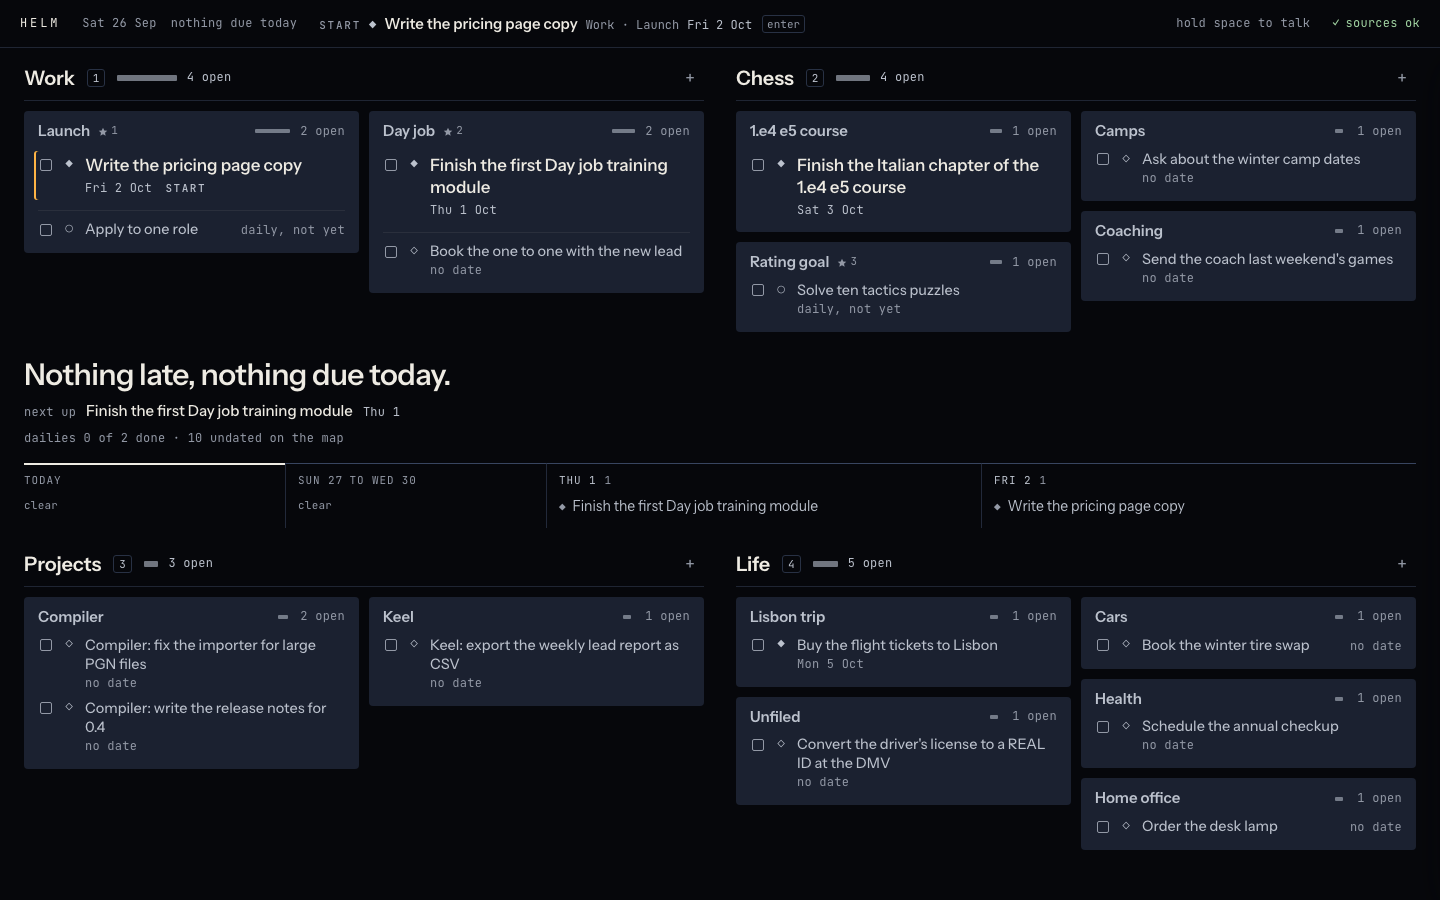
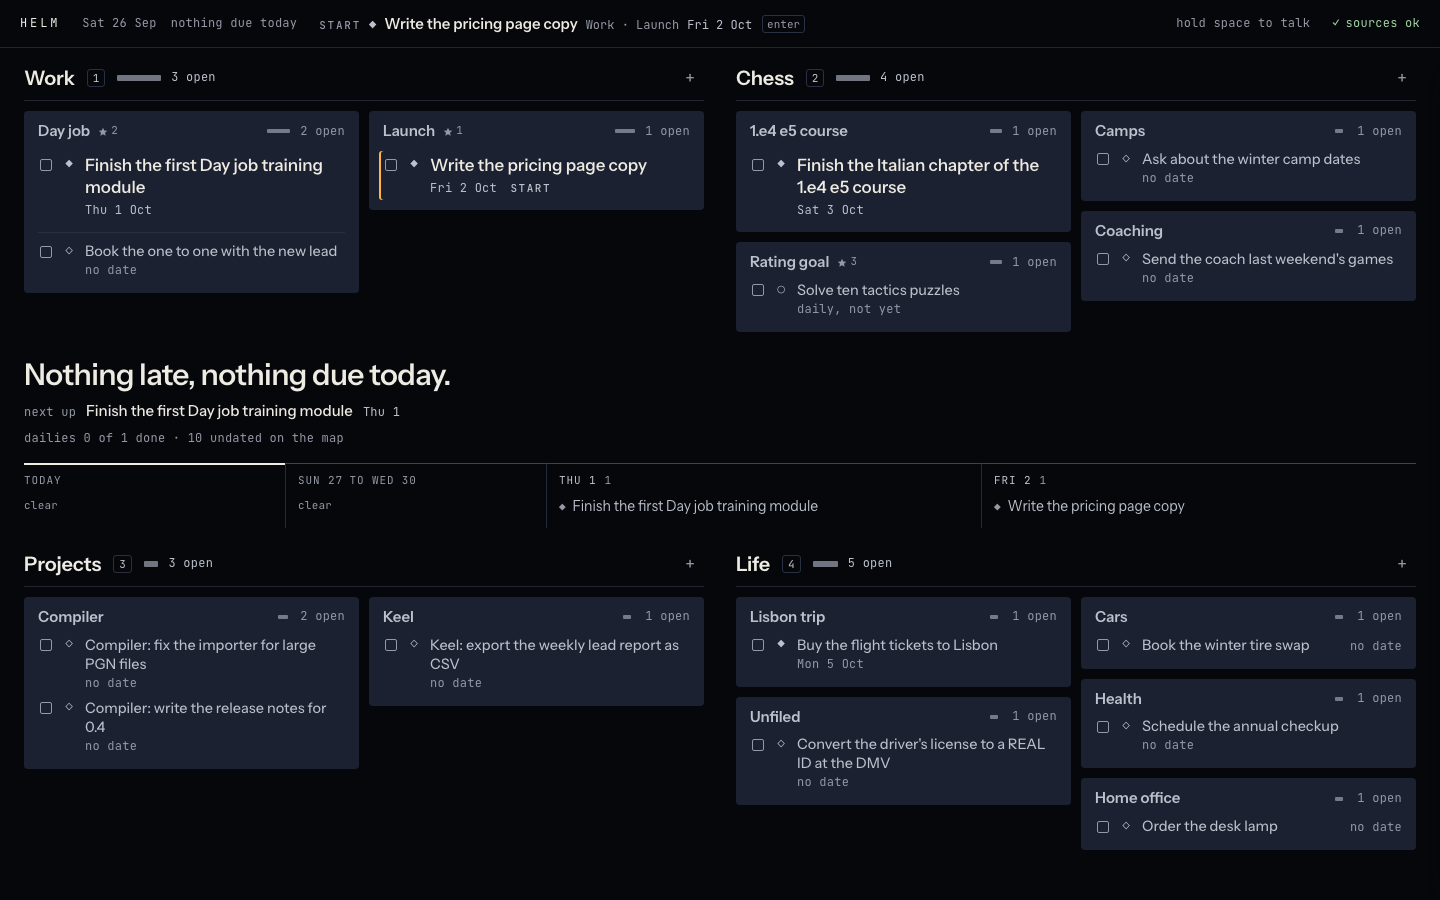
Remove the last job-search hints and an old home path
A cross-model review of the merge found what the deny list could not: the glossary's
star example, the demo vault's interview prep note and the fixture case built on it,
and HELM 1's ADR 0008 all hinted at a job search, and two design candidates under
chat/docs carried an old home directory path. The demo note is now a team wiki, the
fixture case follows it (it passes), and the screenshot is retaken.

diff --git a/CONTEXT.md b/CONTEXT.md
@@ -92,7 +92,7 @@ which model each runs at in `models.json`; it owns only the two in `skills/`.
 **Directive**:
 A department's standing goal. Every department has them; three anywhere in the tree
 are starred as the current priorities, and the list in the vault's `CLAUDE.md` renders those three
-rather than holding a separate list. A star is written on the heading, `### Job search ★1`,
+rather than holding a separate list. A star is written on the heading, `### Launch ★1`,
 and weights the todos under it (ADR 0020). A directive is never finished, so it is never
 escalated against.
 _Avoid_: goal, objective, priority, OKR

diff --git a/chat/docs/candidates/sonnet.md b/chat/docs/candidates/sonnet.md
@@ -22,7 +22,7 @@ const store = new ThreadStore({ root: "~/.helm2/state" });
 const supervisor = new SessionSupervisor({ store });
 
 // create a thread (directory picker on the phone supplies cwd)
-const thread = await store.createThread({ cwd: "/Users/danielgentile/Projects/Vault", model: "sonnet" });
+const thread = await store.createThread({ cwd: "/Users/you/Vault", model: "sonnet" });
 
 // send a turn — returns immediately, the turn runs in the background
 await supervisor.sendMessage(thread.id, { text: "summarize today's meetings", attachments: [] });

diff --git a/chat/docs/candidates/fable.md b/chat/docs/candidates/fable.md
@@ -67,7 +67,7 @@ await helm.interrupt(threadId); // 204 whether or not a turn was running
 const dirs = await helm.browseDirs("~/Projects"); // { entries: [{name, path, hasClaudeMd}] }
 const t = await helm.createThread({
   threadId: crypto.randomUUID(),   // client-minted so create + first send can be retried safely
-  cwd: "/Users/danielgentile/Projects/Vault",
+  cwd: "/Users/you/Vault",
   model: "opus",
   effort: "high",
   title: null,                     // server titles it from the first turn

diff --git a/demo-vault/CLAUDE.md b/demo-vault/CLAUDE.md
@@ -22,7 +22,7 @@ The three starred directives, in order. The stars live on the department notes.
 
 | Department | Router | Covers |
 |---|---|---|
-| Work | `WORK.md` | the day job, the launch, interview prep |
+| Work | `WORK.md` | the day job, the launch, the team offsite |
 | Projects | `PROJECTS.md` | every repo, Compiler, Keel |
 | Chess | `CHESS.md` | coaching, courses, tournaments |
 | Life | `LIFE.md` | travel, errands, home, health |

diff --git a/docs/adr/0008-deterministic-feeds-over-llm.md b/docs/adr/0008-deterministic-feeds-over-llm.md
@@ -7,7 +7,7 @@ date: 2026-07-11
 
 ## Context and Problem Statement
 
-Data tiles (calendar agenda, GitHub activity, USCF rating, job applications)
+Data tiles (calendar agenda, GitHub activity, a chess rating, an application tracker)
 need fresh numbers on a schedule. The project already had a working pattern
 for background work — headless `claude -p` skills — and the agenda tile
 originally used it. Should data fetching be an AI skill?

diff --git a/demo-vault/Atlas/Projects/Projects.md b/demo-vault/Atlas/Projects/Projects.md
@@ -11,7 +11,7 @@ Every repo, and the two side efforts. Router: `PROJECTS.md` at the vault root.
 ## Map
 - [[Compiler]] - a chess opening trainer, built with Priya
 - [[Keel]] - lead triage for a two person business, with [[Alex Reed]]
-- [[Interview Readiness]] - the interview prep site
+- [[Team Wiki]] - the team wiki site
 
 ## Todos
 

diff --git a/demo-vault/Atlas/Work/Work.md b/demo-vault/Atlas/Work/Work.md
@@ -6,7 +6,7 @@ tags: [work, demo]
 ---
 # Work
 
-The day job, the launch and interview prep. Router: `WORK.md` at the vault root.
+The day job, the launch and the team offsite. Router: `WORK.md` at the vault root.
 
 ## Overview
 - Software engineer at a mid-sized company, three months in.

diff --git a/demo-vault/Atlas/Projects/Team Wiki.md b/demo-vault/Atlas/Projects/Team Wiki.md
@@ -1,0 +1,11 @@
+---
+type: project
+title: Team Wiki
+repo: ~/Projects/team-wiki
+status: active
+updated: 2026-09-26
+tags: [project, demo]
+---
+# Team Wiki
+
+The day job team's wiki: a small static site Jordan maintains on the side.
